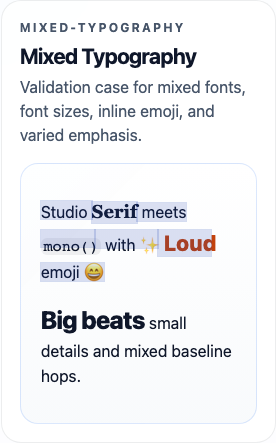
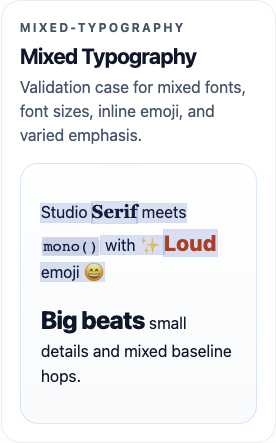
fix: refine inline selection geometry

Changed region(s): [[0.1449, 0.4989, 0.6087, 0.5869], [0.1449, 0.4402, 0.3478, 0.4695], [0.7536, 0.4989, 0.8116, 0.5869]]

diff --git a/packages/core/tests/visual-state.test.ts b/packages/core/tests/visual-state.test.ts
@@ -338,6 +338,115 @@ describe('deriveVisualState', () => {
     ])
   })
 
+  it('offsets mixed-inline selection geometry by inline start and end chrome', () => {
+    const context = {
+      font: '',
+      measureText(text: string) {
+        return {
+          width: text.length * 10,
+          fontBoundingBoxAscent: 14,
+          fontBoundingBoxDescent: 6,
+          actualBoundingBoxAscent: 12,
+          actualBoundingBoxDescent: 4
+        }
+      }
+    } as CanvasRenderingContext2D
+
+    getContextSpy = vi.spyOn(HTMLCanvasElement.prototype, 'getContext').mockReturnValue(context)
+
+    const root = document.createElement('div')
+    root.innerHTML = '<p><span>mono</span><span> tail</span></p>'
+
+    const text = root.querySelectorAll('span')
+    const firstText = text[0]?.firstChild
+    if (!(firstText instanceof Text)) {
+      throw new Error('Expected span text nodes')
+    }
+
+    const model = createDocumentModel(root)
+    ;(model.blocks[0].font as string | undefined) = '16px sans-serif'
+    ;(model.blocks[0].runs[0] as typeof model.blocks[0].runs[0] & { font: string; inlineStartInset: number; inlineEndInset: number }).font = '16px monospace'
+    ;(model.blocks[0].runs[0] as typeof model.blocks[0].runs[0] & { font: string; inlineStartInset: number; inlineEndInset: number }).inlineStartInset = 3
+    ;(model.blocks[0].runs[0] as typeof model.blocks[0].runs[0] & { font: string; inlineStartInset: number; inlineEndInset: number }).inlineEndInset = 3
+    ;(model.blocks[0].runs[1] as typeof model.blocks[0].runs[1] & { font: string }).font = '16px sans-serif'
+
+    const geometry = createSelectionGeometry(model, {
+      blockWidth: 400,
+      lineHeight: 20,
+      font: '16px sans-serif'
+    })
+
+    const selection = getSelection(root, [firstText, 0], [firstText, 4])
+    const visualState = deriveVisualState(model, selection, geometry)
+
+    expect(visualState.selectionRects).toEqual([
+      {
+        x: 3,
+        y: 0,
+        width: 40,
+        height: 20
+      }
+    ])
+  })
+
+  it('does not paint inline end chrome as selected width when the next fragment continues on the same line', () => {
+    const context = {
+      font: '',
+      measureText(text: string) {
+        return {
+          width: text.length * 10,
+          fontBoundingBoxAscent: 14,
+          fontBoundingBoxDescent: 6,
+          actualBoundingBoxAscent: 12,
+          actualBoundingBoxDescent: 4
+        }
+      }
+    } as CanvasRenderingContext2D
+
+    getContextSpy = vi.spyOn(HTMLCanvasElement.prototype, 'getContext').mockReturnValue(context)
+
+    const root = document.createElement('div')
+    root.innerHTML = '<p><span>mono</span><span>tail</span></p>'
+
+    const text = root.querySelectorAll('span')
+    const firstText = text[0]?.firstChild
+    const secondText = text[1]?.firstChild
+    if (!(firstText instanceof Text) || !(secondText instanceof Text)) {
+      throw new Error('Expected span text nodes')
+    }
+
+    const model = createDocumentModel(root)
+    ;(model.blocks[0].font as string | undefined) = '16px sans-serif'
+    ;(model.blocks[0].runs[0] as typeof model.blocks[0].runs[0] & { font: string; inlineStartInset: number; inlineEndInset: number }).font = '16px monospace'
+    ;(model.blocks[0].runs[0] as typeof model.blocks[0].runs[0] & { font: string; inlineStartInset: number; inlineEndInset: number }).inlineStartInset = 3
+    ;(model.blocks[0].runs[0] as typeof model.blocks[0].runs[0] & { font: string; inlineStartInset: number; inlineEndInset: number }).inlineEndInset = 3
+    ;(model.blocks[0].runs[1] as typeof model.blocks[0].runs[1] & { font: string }).font = '16px sans-serif'
+
+    const geometry = createSelectionGeometry(model, {
+      blockWidth: 400,
+      lineHeight: 20,
+      font: '16px sans-serif'
+    })
+
+    const selection = getSelection(root, [firstText, 0], [secondText, 1])
+    const visualState = deriveVisualState(model, selection, geometry)
+
+    expect(visualState.selectionRects).toEqual([
+      {
+        x: 3,
+        y: 0,
+        width: 40,
+        height: 20
+      },
+      {
+        x: 46,
+        y: 0,
+        width: 10,
+        height: 20
+      }
+    ])
+  })
+
   it('splits same-line selection rects when mixed inline runs have different vertical boxes', () => {
     const context = {
       font: '',
@@ -393,6 +502,66 @@ describe('deriveVisualState', () => {
         x: 32,
         y: 6,
         width: 26,
+        height: 16
+      }
+    ])
+  })
+
+  it('aligns mixed inline fragments to a shared baseline instead of centering each fragment', () => {
+    const context = {
+      font: '',
+      measureText(this: CanvasRenderingContext2D, text: string) {
+        const isLarge = this.font.includes('32px')
+        return {
+          width: text.length * 10,
+          fontBoundingBoxAscent: isLarge ? 20 : 8,
+          fontBoundingBoxDescent: isLarge ? 4 : 8,
+          actualBoundingBoxAscent: isLarge ? 20 : 8,
+          actualBoundingBoxDescent: isLarge ? 4 : 8
+        }
+      }
+    } as CanvasRenderingContext2D
+
+    getContextSpy = vi.spyOn(HTMLCanvasElement.prototype, 'getContext').mockReturnValue(context)
+
+    const root = document.createElement('div')
+    root.innerHTML = '<p><span>AAAA</span><span> bb</span></p>'
+
+    const text = root.querySelectorAll('span')
+    const firstText = text[0]?.firstChild
+    const secondText = text[1]?.firstChild
+    if (!(firstText instanceof Text) || !(secondText instanceof Text)) {
+      throw new Error('Expected span text nodes')
+    }
+
+    const model = createDocumentModel(root)
+    ;(model.blocks[0].font as string | undefined) = '16px sans-serif'
+    ;(model.blocks[0].lineHeight as number | undefined) = 32
+    ;(model.blocks[0].runs[0] as typeof model.blocks[0].runs[0] & { font: string; lineHeight: number }).font = '32px sans-serif'
+    ;(model.blocks[0].runs[0] as typeof model.blocks[0].runs[0] & { font: string; lineHeight: number }).lineHeight = 32
+    ;(model.blocks[0].runs[1] as typeof model.blocks[0].runs[1] & { font: string; lineHeight: number }).font = '16px sans-serif'
+    ;(model.blocks[0].runs[1] as typeof model.blocks[0].runs[1] & { font: string; lineHeight: number }).lineHeight = 32
+
+    const geometry = createSelectionGeometry(model, {
+      blockWidth: 400,
+      lineHeight: 32,
+      font: '16px sans-serif'
+    })
+
+    const selection = getSelection(root, [firstText, 0], [secondText, 3])
+    const visualState = deriveVisualState(model, selection, geometry)
+
+    expect(visualState.selectionRects).toEqual([
+      {
+        x: 0,
+        y: 2,
+        width: 40,
+        height: 24
+      },
+      {
+        x: 40,
+        y: 14,
+        width: 30,
         height: 16
       }
     ])

diff --git a/packages/core/src/geometry/selection-geometry.ts b/packages/core/src/geometry/selection-geometry.ts
@@ -324,7 +324,9 @@ function shouldUseRichInline(block: NormalizedBlock, fallbackFont: string) {
   return runs.some((run) => (
     (run.font ?? blockFont) !== blockFont ||
     (run.letterSpacing ?? blockLetterSpacing) !== blockLetterSpacing ||
-    (run.wordSpacing ?? blockWordSpacing) !== blockWordSpacing
+    (run.wordSpacing ?? blockWordSpacing) !== blockWordSpacing ||
+    (run.inlineStartInset ?? 0) !== 0 ||
+    (run.inlineEndInset ?? 0) !== 0
   ))
 }
 
@@ -339,7 +341,8 @@ function buildRichInlineRects(
     .filter((run) => !run.placeholder)
     .map((run) => ({
       text: run.text,
-      font: run.font ?? options.font
+      font: run.font ?? options.font,
+      extraWidth: (run.inlineStartInset ?? 0) + (run.inlineEndInset ?? 0)
     }))
 
   const flow = prepareRichInline(richItems)
@@ -353,8 +356,11 @@ function buildRichInlineRects(
         run,
         font,
         leadingTrim: trimmed.leadingTrim,
+        trailingTrim: trimmed.trailingTrim,
         letterSpacing: run.letterSpacing ?? block.letterSpacing,
         wordSpacing: run.wordSpacing ?? block.wordSpacing,
+        inlineStartInset: run.inlineStartInset ?? 0,
+        inlineEndInset: run.inlineEndInset ?? 0,
         prepared: prepareWithSegments(trimmed.trimmedText, font),
         metrics: measureFontBox(getMeasureContext(contextCache, font))
       }
@@ -372,6 +378,21 @@ function buildRichInlineRects(
     }
 
     const line = materializeRichInlineLineRange(flow, range)
+    const fragments: Array<{
+      startX: number
+      gapBefore: number
+      boundariesInFragment: number[]
+      codeUnitBoundaries: number[]
+      absoluteStart: number
+      leadingGapWidth: number
+      leadingCaretOffset: number | null
+      textStartInset: number
+      textEndInset: number
+      metrics: {
+        ascent: number
+        descent: number
+      }
+    }> = []
     const boundaries: Array<{
       caretX: number
       caretOffset: number
@@ -395,12 +416,6 @@ function buildRichInlineRects(
       )
       lineAscent = Math.max(lineAscent, preparedRun.metrics.ascent)
       lineDescent = Math.max(lineDescent, preparedRun.metrics.descent)
-      const fragmentHeight = preparedRun.metrics.ascent + preparedRun.metrics.descent > 0
-        ? Math.max(1, preparedRun.metrics.ascent + preparedRun.metrics.descent)
-        : lineHeightForLine
-      const fragmentTop = preparedRun.metrics.ascent + preparedRun.metrics.descent > 0
-        ? lineTop + Math.max(0, (lineHeightForLine - fragmentHeight) / 2)
-        : lineTop
 
       const units = Array.from(fragment.text)
       const boundariesInFragment = buildBoundaryWidths(
@@ -426,37 +441,62 @@ function buildRichInlineRects(
         fragmentStart === 0 &&
         preparedRun.leadingTrim > 0 &&
         fragment.gapBefore > 0
+      const fragmentTextEnd = absoluteStart + codeUnitBoundaries[codeUnitBoundaries.length - 1]!
+      const isFirstFragmentForRun = fragmentStart === 0
+      const isLastFragmentForRun = fragmentTextEnd >= preparedRun.run.end - preparedRun.trailingTrim
 
-      if (hasLeadingCollapsedGap) {
-        boundaries.push({
-          caretX: x,
-          caretOffset: preparedRun.run.start,
-          rectTop: fragmentTop,
-          rectHeight: fragmentHeight
-        })
-      }
+      fragments.push({
+        startX: x,
+        gapBefore: fragment.gapBefore,
+        boundariesInFragment,
+        codeUnitBoundaries,
+        absoluteStart,
+        leadingGapWidth: hasLeadingCollapsedGap ? fragment.gapBefore : 0,
+        leadingCaretOffset: hasLeadingCollapsedGap ? preparedRun.run.start : null,
+        textStartInset: isFirstFragmentForRun ? preparedRun.inlineStartInset : 0,
+        textEndInset: isLastFragmentForRun ? preparedRun.inlineEndInset : 0,
+        metrics: preparedRun.metrics
+      })
 
       x += fragment.gapBefore
-
-      if (hasLeadingCollapsedGap) {
-        boundaries.push({
-          caretX: x,
-          caretOffset: absoluteStart,
-          rectTop: fragmentTop,
-          rectHeight: fragmentHeight
-        })
-      }
-
-      for (let caretIndex = hasLeadingCollapsedGap ? 1 : 0; caretIndex < boundariesInFragment.length; caretIndex += 1) {
-        boundaries.push({
-          caretX: x + boundariesInFragment[caretIndex]!,
-          caretOffset: absoluteStart + codeUnitBoundaries[caretIndex]!,
-          rectTop: fragmentTop,
-          rectHeight: fragmentHeight
-        })
-      }
-
+      x += isFirstFragmentForRun ? preparedRun.inlineStartInset : 0
       x += boundariesInFragment[boundariesInFragment.length - 1] ?? 0
+      x += isLastFragmentForRun ? preparedRun.inlineEndInset : 0
+    }
+
+    const lineMetricsHeight = lineAscent + lineDescent
+    const halfLeading = lineMetricsHeight > 0
+      ? Math.max(0, (lineHeightForLine - lineMetricsHeight) / 2)
+      : 0
+    const baselineY = lineTop + halfLeading + lineAscent
+
+    for (const fragment of fragments) {
+      const fragmentHeight = fragment.metrics.ascent + fragment.metrics.descent > 0
+        ? Math.max(1, fragment.metrics.ascent + fragment.metrics.descent)
+        : lineHeightForLine
+      const fragmentTop = fragment.metrics.ascent + fragment.metrics.descent > 0
+        ? baselineY - fragment.metrics.ascent
+        : lineTop
+
+      if (fragment.leadingGapWidth > 0 && fragment.leadingCaretOffset !== null) {
+        boundaries.push({
+          caretX: fragment.startX,
+          caretOffset: fragment.leadingCaretOffset,
+          rectTop: fragmentTop,
+          rectHeight: fragmentHeight
+        })
+      }
+
+      const fragmentOriginX = fragment.startX + fragment.gapBefore + fragment.textStartInset
+
+      for (let caretIndex = 0; caretIndex < fragment.boundariesInFragment.length; caretIndex += 1) {
+        boundaries.push({
+          caretX: fragmentOriginX + fragment.boundariesInFragment[caretIndex]!,
+          caretOffset: fragment.absoluteStart + fragment.codeUnitBoundaries[caretIndex]!,
+          rectTop: fragmentTop,
+          rectHeight: fragmentHeight
+        })
+      }
     }
 
     const actualLineWidth = boundaries[boundaries.length - 1]?.caretX ?? line.width

diff --git a/packages/core/src/model/normalize-root.ts b/packages/core/src/model/normalize-root.ts
@@ -118,6 +118,19 @@ function getSpacingValue(
   return Number.isFinite(parsed) && parsed !== 0 ? parsed : undefined
 }
 
+function getInlineInset(
+  element: HTMLElement,
+  side: 'Left' | 'Right'
+) {
+  const view = element.ownerDocument?.defaultView ?? globalThis.window
+  const computed = view?.getComputedStyle(element)
+  const padding = Number.parseFloat(computed?.[`padding${side}` as 'paddingLeft'] ?? '')
+  const border = Number.parseFloat(computed?.[`border${side}Width` as 'borderLeftWidth'] ?? '')
+  const total = (Number.isFinite(padding) ? padding : 0) + (Number.isFinite(border) ? border : 0)
+
+  return total > 0 ? total : undefined
+}
+
 function collectRuns(source: BlockSource, root: HTMLElement): NormalizedRun[] {
   const runs: NormalizedRun[] = []
   let start = 0
@@ -136,7 +149,9 @@ function collectRuns(source: BlockSource, root: HTMLElement): NormalizedRun[] {
         font: getCanvasFont(getTextHost(root, textNode)),
         lineHeight: getLineHeight(getTextHost(root, textNode)),
         letterSpacing: getSpacingValue(getTextHost(root, textNode), 'letterSpacing'),
-        wordSpacing: getSpacingValue(getTextHost(root, textNode), 'wordSpacing')
+        wordSpacing: getSpacingValue(getTextHost(root, textNode), 'wordSpacing'),
+        inlineStartInset: getInlineInset(getTextHost(root, textNode), 'Left'),
+        inlineEndInset: getInlineInset(getTextHost(root, textNode), 'Right')
       })
       start += text.length
     }

diff --git a/packages/core/src/visual/derive-visual-state.ts b/packages/core/src/visual/derive-visual-state.ts
@@ -383,6 +383,9 @@ export function deriveVisualState(
       if (current === undefined || next === undefined) {
         continue
       }
+      if (next.caretOffset === current.caretOffset) {
+        continue
+      }
 
       const width = next.caretX - current.caretX
       if (width <= 0) {

diff --git a/packages/core/src/types.ts b/packages/core/src/types.ts
@@ -30,6 +30,8 @@ export interface NormalizedRun {
   lineHeight?: number
   letterSpacing?: number
   wordSpacing?: number
+  inlineStartInset?: number
+  inlineEndInset?: number
   placeholder?: true
 }
 
